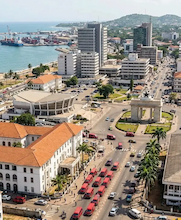
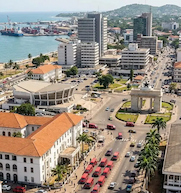
done

diff --git a/index.html b/index.html
@@ -20,44 +20,47 @@
             <a href="https://facebook.com">Facebook Website</a>
         </nav>
     </header>
-    <main>
-        <h1>Nathaniel Dordoye | WDD 130</h1>
-        <img src="images/profile.png" alt="My Profile Picture" width="200">
-        <p>
-            Hello colleagues, I am Nathaniel, though I prefer to be called Klenam. I am passionate
-            about web development and enjoy learning how to structure HTML documents. My goal is to
-            combine coding and data analysis to build projects that make a real impact. Outside of
-            academics, I love exploring new challenges and sharing my journey with others.
-        </p>
-        <ul class="box">
-            <li><a href="https://churchofjesuschristtemples.org/salt-lake-temple/">Salt Lake
-                    Temple</a></li>
-            <li><a
-                  href="https://www.churchofjesuschrist.org/temples/details/accra-ghana-temple?lang=eng">Accra
-                    Ghana Temple</a></li>
-            <li> <a
-                  href="https://www.churchofjesuschrist.org/temples/details/washington-d.c.-temple?lang=eng">Washington
-                    DC Temple</a></li>
-        </ul>
-    </main>
-    <aside class="box">
-        <h2>
-            Ghana
-        </h2>
-        <a>
-            <img src="images/ghana.png" alt="View of Ghana">
-        </a>
-        <p>
-            Ghana popularly known as the soverign Gold Coast is located on the West of Africa.
-            The map of Ghana, described by political activist as the Door to Africa opens a world
-            of rich of cultural heritage of the country. It houses scenimatic tourist sites that
-            attracts not only thousands but millions of foreign nationals.
+    <div class="grid">
+        <main>
+            <h1>Nathaniel Dordoye | WDD 130</h1>
+            <img src="images/profile.png" alt="My Profile Picture" width="200">
+            <p>
+                Hello colleagues, I am Nathaniel, though I prefer to be called Klenam. I am
+                passionate
+                about web development and enjoy learning how to structure HTML documents. My goal is
+                to
+                combine coding and data analysis to build projects that make a real impact. Outside
+                of
+                academics, I love exploring new challenges and sharing my journey with others.
+            </p>
+            <ul class="box">
+                <li><a href="https://churchofjesuschristtemples.org/salt-lake-temple/">Salt Lake
+                        Temple</a></li>
+                <li><a
+                      href="https://www.churchofjesuschrist.org/temples/details/accra-ghana-temple?lang=eng">Accra
+                        Ghana Temple</a></li>
+                <li> <a
+                      href="https://www.churchofjesuschrist.org/temples/details/washington-d.c.-temple?lang=eng">Washington
+                        DC Temple</a></li>
+            </ul>
+        </main>
 
-            If you find yourself in Ghana, ask for Akple and Okro soup. Your tongue will make you
-            ask for more plates.
-        </p>
+        <aside class="box">
+            <h2>
+                Ghana
+            </h2>
+            <a>
+                <img src="images/ghana.png" alt="View of Ghana">
+            </a>
+            <p>
+                Ghana popularly known as the sovereign Gold Coast is located on the West of Africa.
+                The map of Ghana, regarded by political activist as the Door to Africa opens a
+                world of rich of cultural heritage of the country. It houses scenimatic tourist
+                sites that attracts not only thousands but millions of foreign nationals.
+            </p>
+        </aside>
+    </div>
 
-    </aside>
     <footer>
         <p>©2026 ❤ Nathaniel Dordoye ❤ Ghana, Accra</p>
     </footer>

diff --git a/styles/styles.css b/styles/styles.css
@@ -6,37 +6,55 @@
 
 :root {
     --height: auto;
-    --border-size: 1px solid rgb(0, 0, 0, 0.2);
+    --border-size: 1px solid rgb(0, 0, 0, 0.8);
     --padding: 1px;
     --text-align: center;
+}
+
+header,
+footer,
+.grid {
+    max-width: 840px;
+    margin: 0 auto;
+}
+
+.grid {
+    display: grid;
+    align-items: center;
 }
 
 nav {
     background-color: #333;
     padding: 10px;
+    display: flex;
+    flex-direction: row;
+    justify-content: space-evenly;
+    align-items: center;
 }
 
 nav a {
     color: white;
-    display: block;
     padding: 20px;
+    display: block;
+    text-decoration: none;
 }
 
 h1 {
     color: #333;
+    border-bottom: var(--border-size);
 }
 
 img {
     width: 150px;
     height: var(--height);
     border: var(--border-size);
-    border-radius: 50%;
     padding: 2px;
     box-shadow: 0 0 30px gray;
 }
 
 main {
     max-width: 400px;
+    grid-column: 2/3;
 }
 
 aside {
@@ -47,10 +65,12 @@ aside {
     background-color: #eee;
     color: #333;
     text-align: var(--text-align);
+    grid-column: 1/2;
+    grid-row: 1/1;
 }
 
 aside img {
-    width: 200px;
+    width: 250px;
     height: auto;
 }
 
@@ -80,6 +100,7 @@ footer {
     padding: 1rem;
     background-color: #ddd;
     color: #000;
+    position: relative;
 }
 
 aside {
@@ -89,6 +110,6 @@ aside {
 
 aside h2 {
     position: absolute;
-    top: 490px;
+    top: auto;
     left: 145px;
 }
